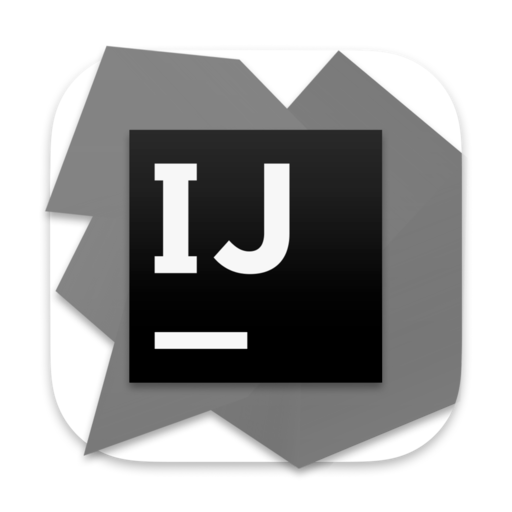
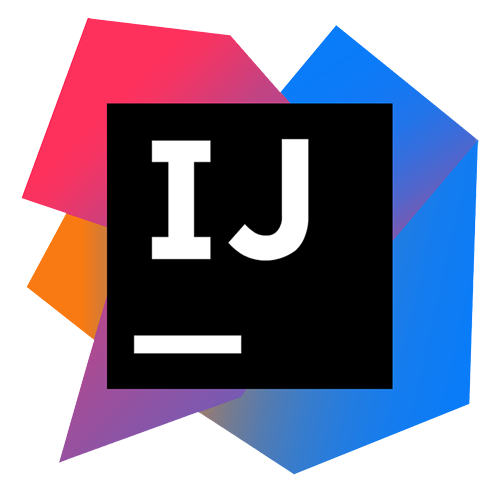
스킬 로고 수정

diff --git a/index.html b/index.html
@@ -261,47 +261,54 @@
           <div class="col-lg-4 col-md-6 icon-box" data-aos="fade-up">
             <div class="icon"><i class="fa-sharp fa-solid fa-globe"></i></div>
             <h4 class="title">Language</h4>
-            <p class="description"><i class='bx bxl-java'></i>JAVA</p>
-            <p class="description"><i class='bx bxl-python'></i>Python</p>
-            <p class="description"><i class='bx bxl-javascript'></i>JavaScript</p>
+            <p class="description"><img src="./assets/img/Java.png">JAVA</p>
+            <p class="description"><img src="./assets/img/python.png">Python</p>
+            <p class="description"><img src="./assets/img/Javascript.png">JavaScript</p>
           </div>
+
           <div class="col-lg-4 col-md-6 icon-box" data-aos="fade-up" data-aos-delay="100">
             <div class="icon"><i class='bx bx-desktop'></i></div>
             <h4 class="title">FrontEnd</h4>
-            <p class="description"><i class='bx bxl-html5'></i>HTML5</p>
-            <p class="description"><i class='bx bxl-css3'></i>CSS3</p>
-            <p class="description"><i class='bx bxl-jquery'></i>j Query</p>
-            <p class="description"><i class='bx bxl-react'></i>React.js</p>
+            <p class="description"><img src="./assets/img/html5.png">HTML5</p>
+            <p class="description"><img src="./assets/img/css3.png">CSS3</p>
+            <p class="description"><img src="./assets/img/jquery.png"> j Query</p>
+            <p class="description"><img src="./assets/img/react.png">React.js</p>
           </div>
+
           <div class="col-lg-4 col-md-6 icon-box" data-aos="fade-up" data-aos-delay="200">
             <div class="icon"><i class="fa-sharp fa-solid fa-code"></i></div>
             <h4 class="title">BackEnd</h4>
+            <p class="description"><img src="./assets/img/SpringBoot.png">Spring Boot</p>
             <p class="description"><img src="./assets/img/jsp.png"> JSP/JSTL</p>
-            <p class="description"><i class='bx bxl-flask'></i>Flask</p>
-            <p class="description"><i class="fa-brands fa-node"></i>Node.js</p>
+            <p class="description"><img src="./assets/img/flask.png">Flask</p>
+            <p class="description"><img src="./assets/img/nodejs.png">Node.js</p>
           </div>
+          
           <div class="col-lg-4 col-md-6 icon-box" data-aos="fade-up" data-aos-delay="300">
             <div class="icon"><i class='bx bxs-data'></i></div>
             <h4 class="title">DataBase</h4>
-            <p class="description"><img src="./assets/img/oracle.png">Oracle</p>
+            <p class="description"><img src="./assets/img/oracleDB.png">Oracle</p>
             <p class="description"><img src="./assets/img/mysql.png">My SQL</p>
-            <p class="description"><i class='bx bxl-mongodb'></i>Mongo DB</p>
-            <p class="description"> <i class='bx bxl-postgresql'></i>Postgre SQL</p>
+            <p class="description"><img src="./assets/img/mongoDB.png">Mongo DB</p>
+            <p class="description"><img src="./assets/img/postgreSQL.png">Postgre SQL</p>
+            <p class="description"><img src="./assets/img/AWS_RDS.png">AWS RDS</p>
           </div> 
+
           <div class="col-lg-4 col-md-6 icon-box" data-aos="fade-up" data-aos-delay="300">
             <div class="icon"><i class='bx bx-server'></i></div>
             <h4 class="title">Server</h4>
             <p class="description"><img src="./assets/img/tomcat.png">Apache Tomcat</p>
-            <p class="description"><i class='bx bxl-aws'></i>AWS EC2</p>
+            <p class="description"><img src="./assets/img/AWS_EC2.png">AWS EC2</p>
           </div>
+
           <div class="col-lg-4 col-md-6 icon-box" data-aos="fade-up" data-aos-delay="400">
             <div class="icon"><i class="fa-solid fa-screwdriver-wrench"></i></div>
             <h4 class="title">Tool</h4>
-            <p class="description"><img src="./assets/img/eclips.png">Eclipse</p>
-            <p class="description"><i class='bx bxl-visual-studio'></i>Visual Studio Code</p>
+            <p class="description"><img src="./assets/img/eclipse.png">Eclipse</p>
+            <p class="description"><img src="./assets/img/VScode.png">Visual Studio Code</p>
             <p class="description"><img src="./assets/img/intellij.png">Intelli j</p>
-            <p class="description"><i class='bx bxl-git'></i>Git</p>
-            <p class="description"><i class='bx bxl-github'></i>Github</p>
+            <p class="description"><img src="./assets/img/git.png">Git</p>
+            <p class="description"><img src="./assets/img/github.png">Github</p>
           </div>
         </div>
     </section><!-- End Services Section -->
